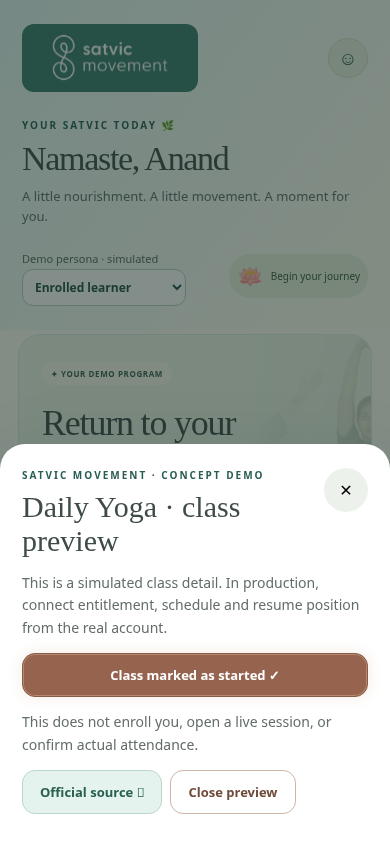
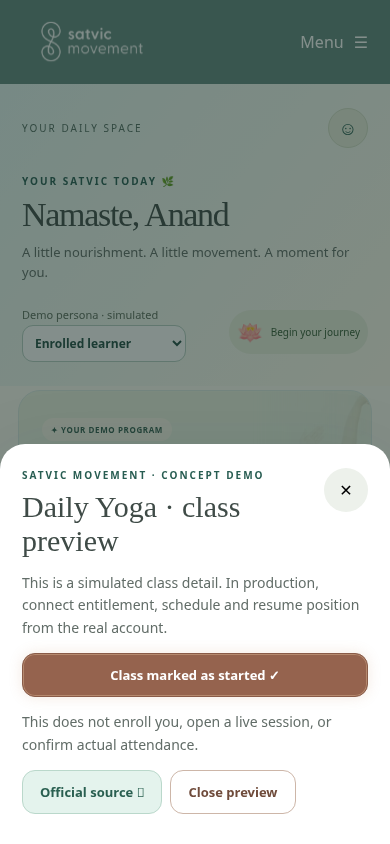
Add reference-style responsive Satvic website header

diff --git a/app.js b/app.js
@@ -135,8 +135,11 @@ function closeModal() {
 function link(url) {
   window.open(url, "_blank", "noopener,noreferrer");
 }
+function siteHeader(){return `<div class="site-header"><div class="site-header-inner"><a class="site-logo" href="./" aria-label="Satvic Movement home"><img src="assets/satvic-logo.svg" alt="Satvic Movement" width="156" height="52"></a><details class="site-menu" ${window.innerWidth>1000?"open":""}><summary>Menu <span aria-hidden="true">☰</span></summary><nav class="site-links" aria-label="Website navigation"><a href="https://satvicmovement.org/about.html" target="_blank" rel="noopener noreferrer">About Us</a><details class="site-dropdown"><summary>Workshops</summary><div class="dropdown-panel"><button onclick="tab('Workshops');closeSiteMenus()">Discover workshops</button><a href="https://satvicmovement.org/workshops/yoga-sadhana-beginner/subscription/" target="_blank" rel="noopener noreferrer">Daily Yoga · official site ↗</a></div></details><details class="site-dropdown"><summary>Books</summary><div class="dropdown-panel"><a href="https://dev.marketplace.satvicmovement.org/collections/all-products" target="_blank" rel="noopener noreferrer">Books & guides · external development store ↗</a></div></details><details class="site-dropdown"><summary>Shop</summary><div class="dropdown-panel"><a href="https://dev.marketplace.satvicmovement.org/collections/all-products" target="_blank" rel="noopener noreferrer">Browse external development store ↗</a></div></details><details class="site-dropdown"><summary>Verticals</summary><div class="dropdown-panel"><button onclick="tab('Recipes');closeSiteMenus()">Food & recipes</button><button onclick="tab('Workshops');closeSiteMenus()">Yoga & learning</button><button onclick="tab('Explore');closeSiteMenus()">Community & more</button></div></details><a href="https://satvicmovement.org/" target="_blank" rel="noopener noreferrer" title="Find current opportunities on the official Satvic Movement website">Join our Team ↗</a><details class="site-dropdown"><summary>Blogs</summary><div class="dropdown-panel"><a href="https://blog.satvicmovement.org/recipes" target="_blank" rel="noopener noreferrer">Recipe collection ↗</a><a href="https://blog.satvicmovement.org/" target="_blank" rel="noopener noreferrer">Official blog ↗</a></div></details><a class="contact-pill" href="https://satvicmovement.org/" target="_blank" rel="noopener noreferrer" title="Find contact details on the official Satvic Movement website">Contact Us ↗</a></nav></details></div></div>`;}
+function closeSiteMenus(){document.querySelectorAll('.site-header details').forEach(e=>e.open=e.classList.contains('site-menu')&&window.innerWidth>1000);}
+document.addEventListener('keydown',e=>{if(e.key==='Escape'&&document.activeElement.closest('.site-header')){const parent=document.activeElement.closest('details[open]');if(parent){parent.open=false;parent.querySelector('summary').focus();}}});
 function header() {
-  return `<header class="top"><div class="brand"><img class="brand-logo" src="assets/satvic-logo.svg" alt="Satvic Movement" width="156" height="52"><button class="avatar" aria-label="Open profile" onclick="tab('Profile')">☺</button></div><div class="eyebrow">Your satvic today 🌿</div><h1>Namaste, Anand</h1><div class="muted">A little nourishment. A little movement. A moment for you.</div><div class="statebar"><label><span class="hint">Demo persona · simulated</span><br><select aria-label="Demo persona · simulated" onchange="persona(this.value)"><option value="new" ${state.persona === "new" ? "selected" : ""}>New explorer</option><option value="returning" ${state.persona === "returning" ? "selected" : ""}>Returning member</option><option value="enrolled" ${state.persona === "enrolled" ? "selected" : ""}>Enrolled learner</option><option value="completed" ${state.persona === "completed" ? "selected" : ""}>Completed program</option></select></label><span class="badge"><span class="persona-icon ${state.persona}" aria-hidden="true">${({new:"🌱",returning:"🍃",enrolled:"🪷",completed:"☀"})[state.persona]}</span> ${streak() ? streak() + " day practice streak" : "Begin your journey"}</span></div></header>`;
+  return `${siteHeader()}<header class="top"><div class="brand"><span class="space-label">YOUR DAILY SPACE</span><button class="avatar" aria-label="Open profile" onclick="tab('Profile')">☺</button></div><div class="eyebrow">Your satvic today 🌿</div><h1>Namaste, Anand</h1><div class="muted">A little nourishment. A little movement. A moment for you.</div><div class="statebar"><label><span class="hint">Demo persona · simulated</span><br><select aria-label="Demo persona · simulated" onchange="persona(this.value)"><option value="new" ${state.persona === "new" ? "selected" : ""}>New explorer</option><option value="returning" ${state.persona === "returning" ? "selected" : ""}>Returning member</option><option value="enrolled" ${state.persona === "enrolled" ? "selected" : ""}>Enrolled learner</option><option value="completed" ${state.persona === "completed" ? "selected" : ""}>Completed program</option></select></label><span class="badge"><span class="persona-icon ${state.persona}" aria-hidden="true">${({new:"🌱",returning:"🍃",enrolled:"🪷",completed:"☀"})[state.persona]}</span> ${streak() ? streak() + " day practice streak" : "Begin your journey"}</span></div></header>`;
 }
 function resolveNextAction(persona, interest) {
   if (persona === "enrolled")
@@ -310,3 +313,5 @@ document.addEventListener("keydown", (e) => {
   }
 });
 render();
+
+let headerDesktop=window.innerWidth>1000;window.addEventListener('resize',()=>{const desktop=window.innerWidth>1000;if(desktop!==headerDesktop){headerDesktop=desktop;const menu=document.querySelector('.site-menu');if(menu)menu.open=desktop;}});

diff --git a/styles.css b/styles.css
@@ -874,3 +874,9 @@ body{background:#e8f5f2}.top{background:linear-gradient(130deg,#e5f5f2,#fffbed)}
 @media(prefers-reduced-motion:reduce){.persona-icon,.breathing-orbit.moving{animation:none!important}}
 @media(max-width:599px){.statebar{flex-wrap:wrap;gap:12px}.badge{white-space:normal}.stories{padding:20px}.story-link{max-width:100%;line-height:1.5}.modal .actions .btn{max-width:100%}}
 .brand-logo{width:176px;height:68px;padding:8px 10px;background:#39796b;border-radius:12px}.story-link{font-family:inherit}
+/* Reference-inspired website navigation. */
+.shell{max-width:none;margin:0;border-radius:0;overflow:visible}.top,.content{max-width:1100px;margin-inline:auto}.site-header{background:#60877e;color:white}.site-header-inner{max-width:1320px;margin:auto;min-height:100px;padding:20px 28px;display:flex;align-items:center;justify-content:space-between;gap:36px}.site-logo{flex-shrink:0;display:flex;align-items:center}.site-logo img{width:156px;height:52px;object-fit:contain}.site-menu{flex:1}.site-menu>summary{display:none}.site-links{display:flex;align-items:center;justify-content:flex-end;gap:23px}.site-links a,.site-links summary{color:#fff;text-decoration:none;font-size:15px;line-height:1.5;white-space:nowrap}.site-links a:hover{text-decoration:underline;text-underline-offset:5px}.site-links summary{list-style:none;cursor:pointer;min-height:44px;display:flex;align-items:center;gap:8px}.site-links summary::-webkit-details-marker{display:none}.site-dropdown>summary::after{content:'';width:8px;height:8px;border-right:1.5px solid;border-bottom:1.5px solid;transform:rotate(45deg);margin-top:-4px}.site-dropdown{position:relative}.dropdown-panel{position:absolute;top:100%;left:0;z-index:12;min-width:220px;max-width:280px;background:#fffdf5;border:1px solid #d1e2d9;border-radius:12px;box-shadow:0 12px 24px #224f4930;padding:8px}.dropdown-panel a,.dropdown-panel button{display:block;white-space:normal;color:#285d52;font:14px/1.6 system-ui;text-align:left;background:none;border:0;padding:10px;border-radius:6px;width:100%;text-decoration:none;min-height:44px}.dropdown-panel a:hover,.dropdown-panel button:hover{background:#e5f2ec}.site-links .contact-pill{color:#41685d;background:white;border-radius:32px;padding:10px 25px;font-weight:650}.space-label{font-size:10px;letter-spacing:2px;color:#526b60}.site-links a:focus-visible,.site-links summary:focus-visible,.site-menu>summary:focus-visible{outline:3px solid #ffe9ab;outline-offset:4px}
+@media(min-width:1001px){.site-menu:not([open])>.site-links{display:flex!important}.site-links>.site-dropdown:last-of-type .dropdown-panel{left:auto;right:0}}
+@media(max-width:1100px){.site-links{gap:15px}.site-header-inner{gap:20px;padding-inline:22px}.site-links a,.site-links summary{font-size:14px}.site-logo img{width:130px}.site-links .contact-pill{padding-inline:16px}}
+@media(max-width:1000px){.site-header-inner{flex-wrap:wrap;min-height:84px;position:relative;padding:16px 22px}.site-logo img{width:140px;height:46px}.site-menu{flex:0}.site-menu>summary{display:flex;align-items:center;gap:10px;min-height:44px;cursor:pointer;list-style:none;color:white}.site-menu>summary::-webkit-details-marker{display:none}.site-menu[open]>.site-links{display:flex}.site-links{position:absolute;top:100%;left:0;right:0;padding:16px 22px 24px;background:#60877e;z-index:15;flex-direction:column;align-items:stretch;gap:5px;box-shadow:0 14px 18px #285d5225;max-height:75dvh;overflow:auto}.site-links>a{padding:10px 0;min-height:44px}.site-links summary{font-size:16px}.site-links a{font-size:16px}.dropdown-panel{position:static;max-width:none;box-shadow:none;margin-bottom:8px}.site-links .contact-pill{text-align:center;margin-top:8px;padding:10px}.site-dropdown>summary{justify-content:space-between}.content{overflow:hidden}}
+@media(min-width:1001px){.site-menu::details-content{content-visibility:visible!important;display:block!important}}

diff --git a/index.html b/index.html
@@ -8,12 +8,12 @@
     />
     <meta name="theme-color" content="#e4f3e9" />
     <title>Your Satvic Today · Product concept</title>
-    <link rel="stylesheet" href="styles.css?v=journey-2" />
+    <link rel="stylesheet" href="styles.css?v=header-3" />
   </head>
   <body>
     <main id="app" class="shell"></main>
-    <p style="text-align:center;font:12px system-ui;color:#285d52;padding:12px 12px 100px">Prototype release: Journey 2 · breathing guide + wellbeing reflection</p>
-    <script src="journey.js?v=journey-2"></script>
-    <script src="app.js?v=journey-2"></script>
+    <p style="text-align:center;font:12px system-ui;color:#285d52;padding:12px 12px 100px">Prototype release: Header 3 · website navigation + guided journey</p>
+    <script src="journey.js?v=header-3"></script>
+    <script src="app.js?v=header-3"></script>
   </body>
 </html>

diff --git a/QA_REPORT.md b/QA_REPORT.md
@@ -38,3 +38,7 @@ Added the supplied SVG logo on a green backing for contrast, mint/cream/terracot
 Updated automated Chromium checks cover a full 120-second journey using Playwright's controlled clock, a paused interval, resume, optional check-in, completed-practice logging, skipping without logging, scoring/back navigation/all-skip, no score answers persisted, reduced-motion CSS, SVG loading and the official homepage link. Existing persona, onboarding, persistence, focus, navigation, viewport and storage recovery tests remain in the suite. Updated mobile/desktop screenshots plus breathing completion and wellbeing result captures are included. Manual VoiceOver and real-device review remain pending.
 
 The official homepage returned HTTP 403 from the cloud environment. The Stories of Success card therefore links to the user-specified official homepage and explicitly directs users to its Stories of Success section. Individual story URLs, current testimonial copy and images were not retrievable or verified and have not been fabricated. Colors follow the user-supplied visual references rather than a live site CSS extraction.
+
+## Reference header update
+
+Added a full-width muted green website header with supplied white logo, desktop navigation dropdowns, Contact Us pill and a compact mobile menu. Added browser checks for mobile opening/closing, Escape, dropdown navigation to Recipes and Workshops, and desktop dropdown access. Existing full interaction suite and 320/375/390/430/1280px overflow checks are retained; screenshots refreshed. Careers and Contact intentionally lead to the official homepage because dedicated route URLs remain unverified. Shop/Books clearly identify the supplied external development store. This update does not assert external-link reachability. Manual screen-reader and real-device checks remain pending.
